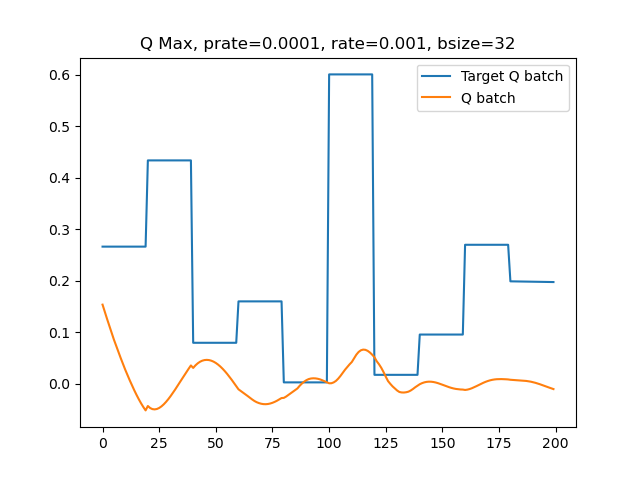
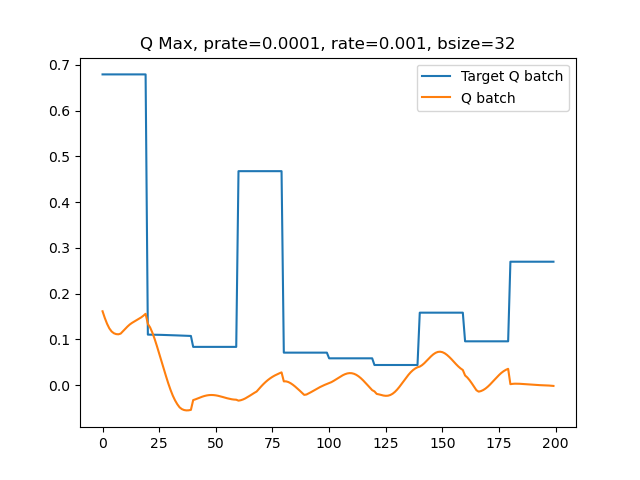
profile code and add graphs back in

diff --git a/market-sim/drl_top.py b/market-sim/drl_top.py
@@ -19,6 +19,10 @@ from pytorch_ddpg.util import *
 
 from mse import getDataList, getStats, getStatsJson
 
+from profile_code import profile
+
+profile_path = ''
+
 
 def create_parser():
     parser = argparse.ArgumentParser(description="""Run market-sim with a
@@ -72,6 +76,128 @@ def writeConfigFile(conf, role_info, nb_states, nb_actions, model_folder, config
     except BrokenPipeError:
         pass
 
+def launchMarketSimW(config_path, temp_out_path, training):
+    #warm up & training
+    if training:
+        os.system(f"./market-sim.sh -s {config_path} | jq -c \'(.players[] | select (.role | contains(\"bench_mani\")) | .features)\' > {temp_out_path}")
+
+    #testing
+    else:
+        os.system(f"./market-sim.sh -s {config_path} | jq -c  '(.players[] | \"\(.role) \(.payoff)\"), (.features | .markets[0] | .benchmark), (.features | .total_surplus) ' > {temp_out_path}")
+
+def launchMarketSimTrain(config_path, temp_out_path, training):
+    #warm up & training
+    if training:
+        os.system(f"./market-sim.sh -s {config_path} | jq -c \'(.players[] | select (.role | contains(\"bench_mani\")) | .features)\' > {temp_out_path}")
+
+    #testing
+    else:
+        os.system(f"./market-sim.sh -s {config_path} | jq -c  '(.players[] | \"\(.role) \(.payoff)\"), (.features | .markets[0] | .benchmark), (.features | .total_surplus) ' > {temp_out_path}")
+
+def launchMarketSimTest(config_path, temp_out_path, training):
+    #warm up & training
+    if training:
+        os.system(f"./market-sim.sh -s {config_path} | jq -c \'(.players[] | select (.role | contains(\"bench_mani\")) | .features)\' > {temp_out_path}")
+
+    #testing
+    else:
+        os.system(f"./market-sim.sh -s {config_path} | jq -c  '(.players[] | \"\(.role) \(.payoff)\"), (.features | .markets[0] | .benchmark), (.features | .total_surplus) ' > {temp_out_path}")
+
+def getObservations(replay_buffer, temp_out_path, curr_arrivals):
+    #warm up & training
+    with open(temp_out_path) as json_file:
+        feat = json.load(json_file)
+    arr = feat['arrivals']
+    curr_arrivals = curr_arrivals + arr
+    print(curr_arrivals)
+    json_file.close()
+
+    obs = feat['rl_observations']
+    for i, ob in enumerate(obs):
+        # Hacky way to vefiy that action was selected
+        if len(ob['action']) > 0:
+        #json.dump(ob, replay_buffer_file)
+            ob['action'] =  ob['action']['alpha']
+            replay_buffer.append(ob)
+        else:
+            curr_arrivals = curr_arrivals - 1
+    return replay_buffer, curr_arrivals
+
+def getTestStats(stats, temp_out_path):
+    #testing
+    with open(temp_out_path) as f:
+        lines = [line.replace('\"', '').split() for line in f]
+    f.close()
+    for j,s in enumerate(lines):
+        stats.append(s)
+    return stats
+
+def updatePolicy(agent, replay_buffer, bsize, nb_states, nb_actions, update_steps):
+    mini_batch = random.choices(replay_buffer, k=bsize)
+    state0_batch = np.empty((bsize,nb_states))
+    state1_batch = np.empty((bsize,nb_states))
+    action_batch = np.empty((bsize,nb_actions))
+    term_batch = np.empty((bsize,1))
+    reward_batch = np.empty((bsize,1))
+    for j, ob in enumerate(mini_batch):
+        state0_batch[j,:] = np.array(ob['state0'])
+        state1_batch[j,:] = np.array(ob['state1'])
+        action_batch[j,:] = np.array(ob['action'])
+        term_batch[j,:] = np.array(ob['terminal'])
+        reward_batch[j,:] = np.array(ob['reward'])
+    # Normalize reward batch
+    reward_norm = np.sqrt(np.sum(reward_batch**2))
+    reward_batch = reward_batch/reward_norm
+    
+    # Update the policy the number of arrivals
+    for j in range(update_steps):
+        agent.update_policy(state0_batch, action_batch, reward_batch, state1_batch, term_batch)
+
+    #agent.save_model(model_folder)
+
+    actor_weights = {}
+    actor_weights['weightMtx1'] = to_numpy(agent.actor.fc1.weight).tolist()
+    actor_weights['biasMtx1'] = to_numpy(agent.actor.fc1.bias).tolist()
+    actor_weights['weightMtx2'] = to_numpy(agent.actor.fc2.weight).tolist()
+    actor_weights['biasMtx2'] = to_numpy(agent.actor.fc2.bias).tolist()
+    actor_weights['weightMtx3'] = to_numpy(agent.actor.fc3.weight).tolist()
+    actor_weights['biasMtx3'] = to_numpy(agent.actor.fc3.bias).tolist()
+
+    return agent, actor_weights
+
+def plotDRLStats(agent,prate, rate, bsize, job_num, output_file):
+    #actor loss
+    plt.title(f'Actor Loss, job={job_num}, prate={prate}, rate={rate}, bsize={bsize}')
+    plt.plot(agent.getActorLoss())
+    plt.savefig(f'{output_file}_actor_loss.png')
+    plt.close()
+    #critic loss
+    plt.title(f'Critic Loss, job={job_num}, prate={prate}, rate={rate}, bsize={bsize}')
+    plt.plot(agent.getCriticLoss())
+    plt.savefig(f'{output_file}_critic_loss.png')
+    plt.close()
+
+    q_avg, target_q_avg, q_min, target_q_min, q_max, target_q_max = agent.getQLists()
+    plt.title(f'Q Average, prate={prate}, rate={rate}, bsize={bsize}')
+    plt.plot(target_q_avg, label='Target Q batch')
+    plt.plot(q_avg, label='Q batch')
+    plt.legend()
+    plt.savefig(f'{output_file}_q_avg.png')
+    plt.close()
+    plt.title(f'Q Min, prate={prate}, rate={rate}, bsize={bsize}')
+    plt.plot(target_q_min, label='Target Q batch')
+    plt.plot(q_min, label='Q batch')
+    plt.legend()
+    plt.savefig(f'{output_file}_q_min.png')
+    plt.close()
+    plt.title(f'Q Max, prate={prate}, rate={rate}, bsize={bsize}')
+    plt.plot(target_q_max, label='Target Q batch')
+    plt.plot(q_max, label='Q batch')
+    plt.legend()
+    plt.savefig(f'{output_file}_q_max.png')
+    plt.close()
+
+profile(sort_by='cumulative', lines_to_print=10, strip_dirs=True)
 def main():
     args = create_parser().parse_args()
     model_folder = args.model_folder
@@ -101,7 +227,6 @@ def main():
     conf['configuration']['OUMu'] = drl_args['ou_mu']
     conf['configuration']['OUSigma'] = drl_args['ou_sigma']
     conf['configuration']['OUTheta'] = drl_args['ou_theta']
-    print(drl_args['epsilon'])
     conf['configuration']['EpsilonDecay'] = drl_args['epsilon']
 
     keys = {key.lower(): key for key in conf['configuration']}
@@ -121,25 +246,8 @@ def main():
         # Generate new mixed strategies for agents
         writeConfigFile(conf, role_info, 0, 0, model_folder, config_path)
 
-        #  print(f"./market-sim.sh -s {config_path} | jq -c \'(.players[] | select (.role | contains(\"bench_mani\")) | .features)\' > {temp_out_path}")
-
-        os.system(f"./market-sim.sh -s {config_path} | jq -c \'(.players[] | select (.role | contains(\"bench_mani\")) | .features)\' > {temp_out_path}")
-        with open(temp_out_path) as json_file:
-                feat = json.load(json_file)
-        arr = feat['arrivals']
-        curr_arrivals = curr_arrivals + arr
-        print(curr_arrivals)
-
-        obs = feat['rl_observations']
-        for i, ob in enumerate(obs):
-            if len(ob['action']) > 0:
-                ob['action'] =  ob['action']['alpha']
-                replay_buffer.append(ob)
-            else:
-                curr_arrivals = curr_arrivals - 1
-            #replay_buffer.append(ob)
-        #curr_arrivals = 4 #This line is for testing to pass warmup loop
-
+        launchMarketSimW(config_path, temp_out_path, True)
+        replay_buffer, curr_arrivals = getObservations(replay_buffer, temp_out_path, curr_arrivals)
 
     print("made it to ddpg!")
     assert np.array(replay_buffer[0]['state0']).size == np.array(replay_buffer[0]['state1']).size,"First state0 != state1 length."
@@ -165,35 +273,8 @@ def main():
     training_steps = int(drl_args["trainingSteps"])
     for i in range(training_steps):
         print("Training step "+str(i))
-        mini_batch = random.choices(replay_buffer, k=bsize)
-        state0_batch = np.empty((bsize,nb_states))
-        state1_batch = np.empty((bsize,nb_states))
-        action_batch = np.empty((bsize,nb_actions))
-        term_batch = np.empty((bsize,1))
-        reward_batch = np.empty((bsize,1))
-        for j, ob in enumerate(mini_batch):
-            state0_batch[j,:] = np.array(ob['state0'])
-            state1_batch[j,:] = np.array(ob['state1'])
-            action_batch[j,:] = np.array(ob['action'])
-            term_batch[j,:] = np.array(ob['terminal'])
-            reward_batch[j,:] = np.array(ob['reward'])
-        # Normalize reward batch
-        reward_norm = np.sqrt(np.sum(reward_batch**2))
-        reward_batch = reward_batch/reward_norm
-        
-        # Update the policy the number of arrivals
-        for j in range(int(drl_args["updateSteps"])):
-            agent.update_policy(state0_batch, action_batch, reward_batch, state1_batch, term_batch)
-
-        #agent.save_model(model_folder)
-
-        actor_weights = {}
-        actor_weights['weightMtx1'] = to_numpy(agent.actor.fc1.weight).tolist()
-        actor_weights['biasMtx1'] = to_numpy(agent.actor.fc1.bias).tolist()
-        actor_weights['weightMtx2'] = to_numpy(agent.actor.fc2.weight).tolist()
-        actor_weights['biasMtx2'] = to_numpy(agent.actor.fc2.bias).tolist()
-        actor_weights['weightMtx3'] = to_numpy(agent.actor.fc3.weight).tolist()
-        actor_weights['biasMtx3'] = to_numpy(agent.actor.fc3.bias).tolist()
+        update_steps = int(drl_args["updateSteps"])
+        agent, actor_weights = updatePolicy(agent, replay_buffer, bsize, nb_states, nb_actions, update_steps)
 
         if i < training_steps - 1:
             # get weights and bias for policy actions
@@ -202,23 +283,8 @@ def main():
             # Generate new mixed strategies for agents
             writeConfigFile(conf, role_info, nb_states, nb_actions, model_folder, config_path, actor_weights = actor_weights, policy_action = True, isTraining = True)
 
-            os.system(f"./market-sim.sh -s {config_path} | jq -c \'(.players[] | select (.role | contains(\"bench_mani\")) | .features)\' > {temp_out_path}")
-            with open(temp_out_path) as json_file:
-                    feat = json.load(json_file)
-            arr = feat['arrivals']
-            curr_arrivals = curr_arrivals + arr
-            print(curr_arrivals)
-            json_file.close()
-
-            obs = feat['rl_observations']
-            for i, ob in enumerate(obs):
-                # Hacky way to vefiy that action was selected
-                if len(ob['action']) > 0:
-                #json.dump(ob, replay_buffer_file)
-                    ob['action'] =  ob['action']['alpha']
-                    replay_buffer.append(ob)
-                else:
-                    curr_arrivals = curr_arrivals - 1
+            launchMarketSimTrain(config_path, temp_out_path, True)
+            replay_buffer, curr_arrivals = getObservations(replay_buffer, temp_out_path, curr_arrivals)
 
             if curr_arrivals > rmsize:
                 begin_buffer = curr_arrivals - rmsize
@@ -230,46 +296,12 @@ def main():
     testing_steps = int(drl_args["testingSteps"])
     for i in range(testing_steps):
         writeConfigFile(conf, role_info, nb_states, nb_actions, model_folder, config_path, actor_weights = actor_weights, policy_action = True)
-        os.system(f"./market-sim.sh -s {config_path} | jq -c  '(.players[] | \"\(.role) \(.payoff)\"), (.features | .markets[0] | .benchmark), (.features | .total_surplus) ' > {temp_out_path}")
-        #os.system("./market-sim.sh -s run_scripts/drl_conf.json | jq -c  '(.players[]), (.features) ' > test_out.json")
-        with open(temp_out_path) as f:
-            lines = [line.replace('\"', '').split() for line in f]
-        f.close()
-        for j,s in enumerate(lines):
-            stats.append(s)
+        launchMarketSimTest(config_path, temp_out_path, False)
+        stats = getTestStats(stats, temp_out_path)
 
-    #print("actor loss")
-    #prate = drl_args['prate']
-    #rate = drl_args['rate']
-    #plt.title(f'Actor Loss, job={job_num}, prate={prate}, rate={rate}, bsize={bsize}')
-    #plt.plot(agent.getActorLoss())
-    #plt.savefig(f'{output_file}_actor_loss.png')
-    #plt.close()
-    #print("critic loss")
-    #plt.title(f'Critic Loss, job={job_num}, prate={prate}, rate={rate}, bsize={bsize}')
-    #plt.plot(agent.getCriticLoss())
-    #plt.savefig(f'{output_file}_critic_loss.png')
-    #plt.close()
-
-    #q_avg, target_q_avg, q_min, target_q_min, q_max, target_q_max = agent.getQLists()
-    #plt.title(f'Q Average, prate={prate}, rate={rate}, bsize={bsize}')
-    #plt.plot(target_q_avg, label='Target Q batch')
-    #plt.plot(q_avg, label='Q batch')
-    #plt.legend()
-    #plt.savefig(f'{output_file}_q_avg.png')
-    #plt.close()
-    #plt.title(f'Q Min, prate={prate}, rate={rate}, bsize={bsize}')
-    #plt.plot(target_q_min, label='Target Q batch')
-    #plt.plot(q_min, label='Q batch')
-    #plt.legend()
-    #plt.savefig(f'{output_file}_q_min.png')
-    #plt.close()
-    #plt.title(f'Q Max, prate={prate}, rate={rate}, bsize={bsize}')
-    #plt.plot(target_q_max, label='Target Q batch')
-    #plt.plot(q_max, label='Q batch')
-    #plt.legend()
-    #plt.savefig(f'{output_file}_q_max.png')
-    #plt.close()
+    prate = drl_args['prate']
+    rate = drl_args['rate']
+    plotDRLStats(agent, prate, rate, bsize, job_num, output_file)
 
     num_agents = 0
     for key,value in roles.items():
@@ -306,7 +338,6 @@ def main():
 
     #for i, ob in enumerate(replay_buffer):
         #json.dump(ob, replay_buffer_file)
-
 
 if __name__ == '__main__':
     main()

diff --git a/market-sim/profile_code.py b/market-sim/profile_code.py
@@ -1,0 +1,55 @@
+import cProfile
+import pstats
+from functools import wraps
+
+
+def profile(output_file=None, sort_by='cumulative', lines_to_print=None, strip_dirs=False):
+    """A time profiler decorator.
+    Inspired by and modified the profile decorator of Giampaolo Rodola:
+    http://code.activestate.com/recipes/577817-profile-decorator/
+    Args:
+        output_file: str or None. Default is None
+            Path of the output file. If only name of the file is given, it's
+            saved in the current directory.
+            If it's None, the name of the decorated function is used.
+        sort_by: str or SortKey enum or tuple/list of str/SortKey enum
+            Sorting criteria for the Stats object.
+            For a list of valid string and SortKey refer to:
+            https://docs.python.org/3/library/profile.html#pstats.Stats.sort_stats
+        lines_to_print: int or None
+            Number of lines to print. Default (None) is for all the lines.
+            This is useful in reducing the size of the printout, especially
+            that sorting by 'cumulative', the time consuming operations
+            are printed toward the top of the file.
+        strip_dirs: bool
+            Whether to remove the leading path info from file names.
+            This is also useful in reducing the size of the printout
+    Returns:
+        Profile of the decorated function
+    """
+
+    def inner(func):
+        @wraps(func)
+        def wrapper(*args, **kwargs):
+            _output_file = output_file or func.__name__ + '.prof'
+            print(_output_file)
+            pr = cProfile.Profile()
+            pr.enable()
+            retval = func(*args, **kwargs)
+            pr.disable()
+            pr.dump_stats(_output_file)
+
+            with open(_output_file, 'w') as f:
+                ps = pstats.Stats(pr, stream=f)
+                if strip_dirs:
+                    ps.strip_dirs()
+                if isinstance(sort_by, (tuple, list)):
+                    ps.sort_stats(*sort_by)
+                else:
+                    ps.sort_stats(sort_by)
+                ps.print_stats(lines_to_print)
+            return retval
+
+        return wrapper
+
+    return inner

diff --git a/market-sim/pytorch_ddpg/ddpg.py b/market-sim/pytorch_ddpg/ddpg.py
@@ -84,18 +84,18 @@ class DDPG(object):
 
         q_batch = self.critic([ to_tensor(state_batch), to_tensor(action_batch) ])
 
-        #self.q_avg.append(float(to_numpy(q_batch.mean()).squeeze(0)))
-        #self.target_q_avg.append(float(to_numpy(target_q_batch.mean()).squeeze(0)))
+        self.q_avg.append(float(to_numpy(q_batch.mean()).squeeze(0)))
+        self.target_q_avg.append(float(to_numpy(target_q_batch.mean()).squeeze(0)))
 
-        #self.q_min.append(float(to_numpy(q_batch.min()).squeeze(0)))
-        #self.target_q_min.append(float(to_numpy(target_q_batch.min()).squeeze(0)))
+        self.q_min.append(float(to_numpy(q_batch.min()).squeeze(0)))
+        self.target_q_min.append(float(to_numpy(target_q_batch.min()).squeeze(0)))
 
-        #self.q_max.append(float(to_numpy(q_batch.max()).squeeze(0)))
-        #self.target_q_max.append(float(to_numpy(target_q_batch.max()).squeeze(0)))
+        self.q_max.append(float(to_numpy(q_batch.max()).squeeze(0)))
+        self.target_q_max.append(float(to_numpy(target_q_batch.max()).squeeze(0)))
         
         value_loss = criterion(q_batch, target_q_batch)
         value_loss.backward()
-        #self.critic_loss.append(float(to_numpy(value_loss).squeeze(0)))
+        self.critic_loss.append(float(to_numpy(value_loss).squeeze(0)))
         self.critic_optim.step()
 
         # Actor update
@@ -110,7 +110,7 @@ class DDPG(object):
         #print(policy_loss)
         policy_loss = policy_loss.mean()
         policy_loss.backward()
-        #self.actor_loss.append(float(to_numpy(policy_loss).squeeze(0)))
+        self.actor_loss.append(float(to_numpy(policy_loss).squeeze(0)))
         self.actor_optim.step()
 
         # Target update
@@ -176,7 +176,6 @@ class DDPG(object):
         return self.critic_loss
 
     def getQLists(self):
-        print(self.q_avg)
         return self.q_avg, self.target_q_avg, self.q_min, self.target_q_min, self.q_max, self.target_q_max
 
 if __name__ == '__main__':
